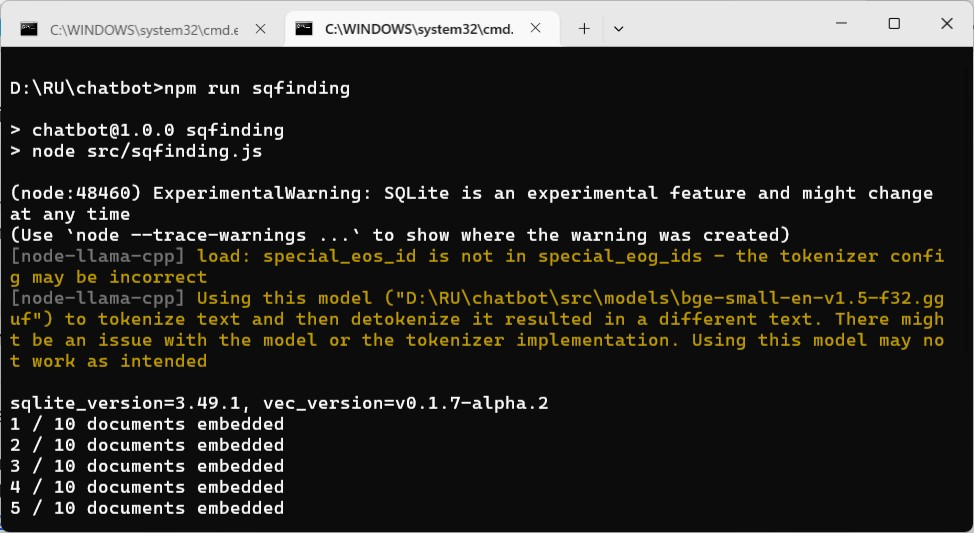
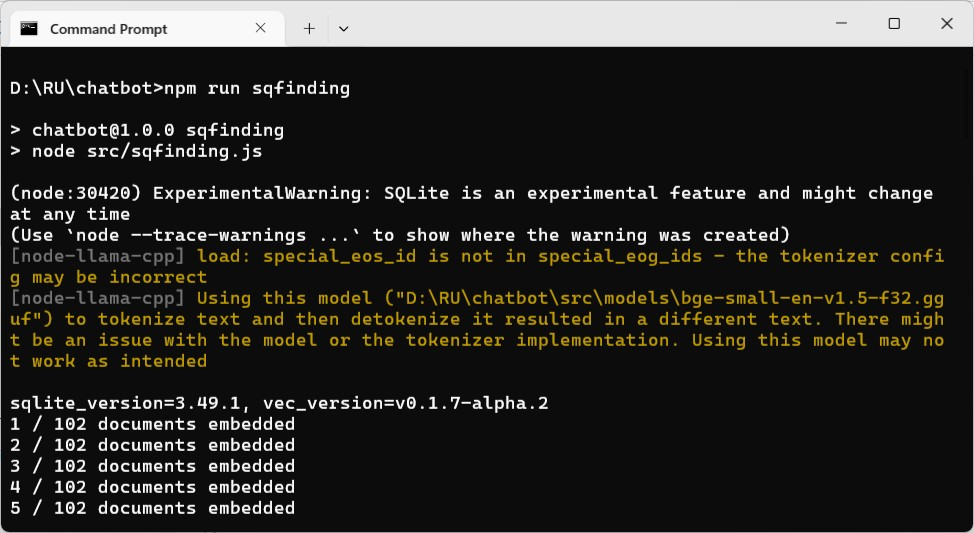
write more

Changed region(s): [[0.0616, 0.7805, 0.308, 0.9606], [0.0, 0.03, 0.5236, 0.0901], [0.0616, 0.3302, 0.1232, 0.3902]]

diff --git a/README.md b/README.md
@@ -184,6 +184,11 @@ Crowling through the [Blog](https://alexgarcia.xyz/blog/) by Alex Garcia:
 #### IX. SQlite
 
 
+![alt sqfindingCosine1](img/sqfindingCosine1.JPG)
+
+![alt sqfindingCosine2](img/sqfindingCosine2.JPG)
+
+
 #### X. Bibliography
 1. [node-llama-cpp](https://www.npmjs.com/package/node-llama-cpp)
 2. [node-llama-cpp docs](https://github.com/withcatai/node-llama-cpp/tree/master/docs)
